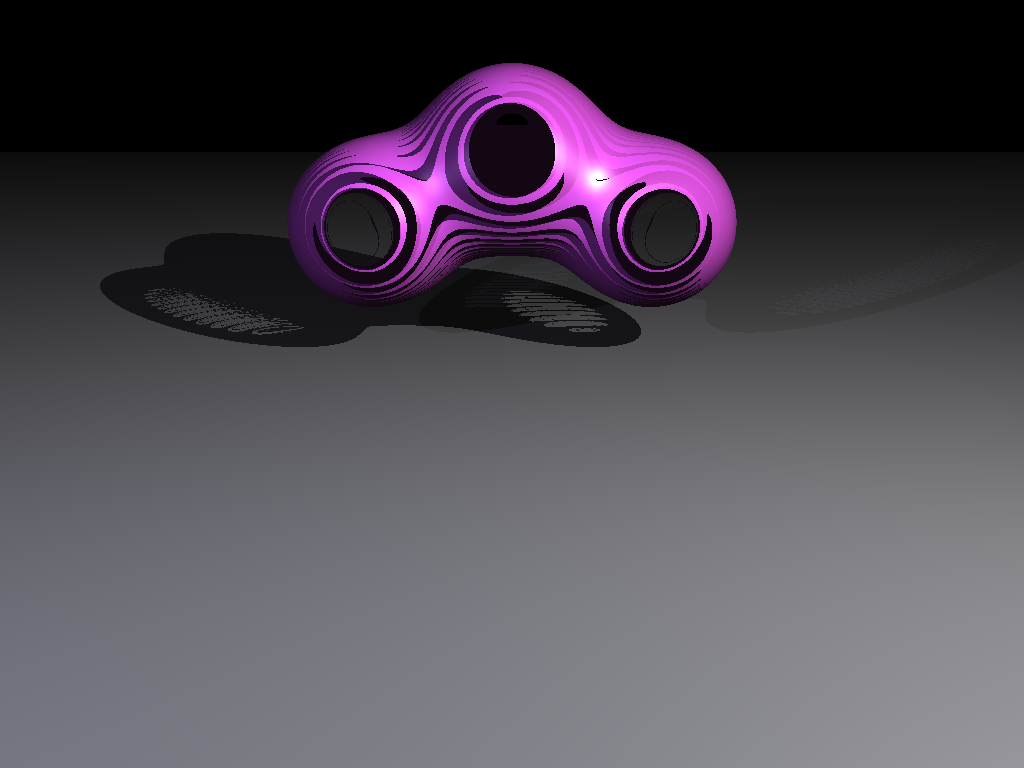
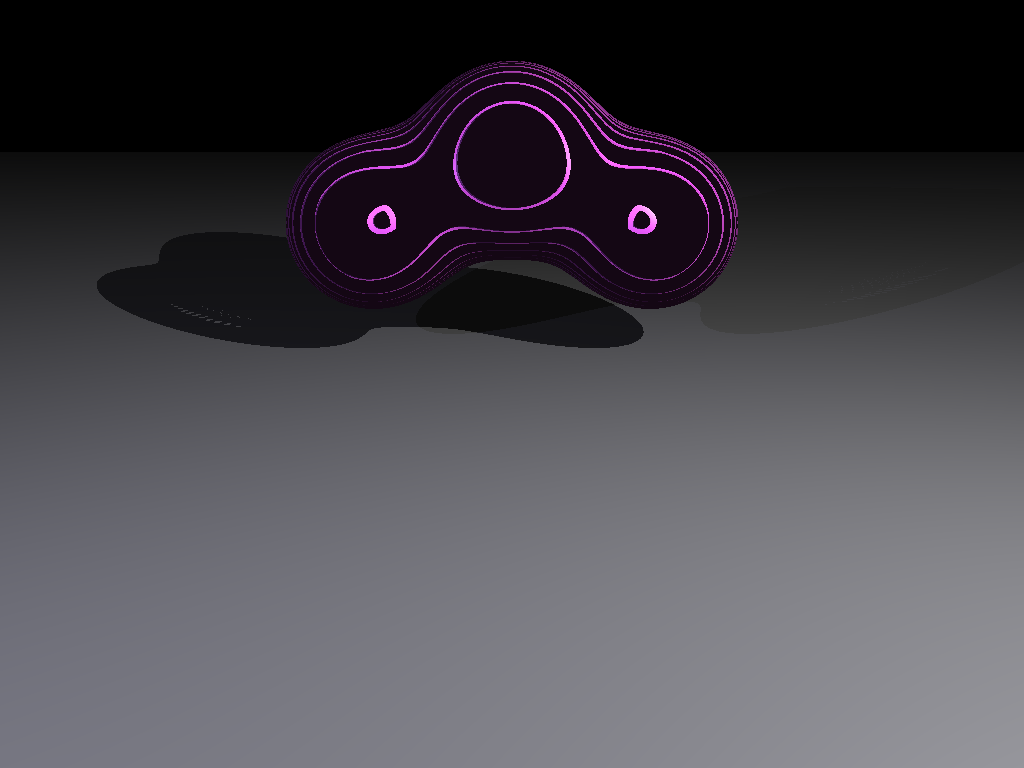
setting parameters

Changed region(s): [[0.2812, 0.0625, 0.7188, 0.4375], [0.125, 0.375, 0.2812, 0.4375], [0.0938, 0.3438, 0.125, 0.375]]

diff --git a/geometry.py b/geometry.py
@@ -698,7 +698,7 @@ def compute_sdf_normal(metaball: Metaball, point: tm.vec3) -> tm.vec3:
     
     # Normalize and return (pointing outward, so negate if needed)
     grad_len = tm.length(gradient)
-    result = tm.vec3(0.0, 1.0, 0.0)  # Default normal if gradient is zero
+    result = tm.vec3(0.0, 0.0, 1.0)  # Default normal if gradient is zero
     if grad_len > EPSILON:
         result = tm.normalize(gradient)
     return result
@@ -722,10 +722,10 @@ def rayMarchMetaball(metaball: Metaball, ray: Ray, t_min: float, t_max: float) -
     D_local = tm.normalize(local_ray.direction)
     
     # Ray marching parameters
-    max_steps = 128
+    max_steps = 256
     min_step_size = 0.001
     max_step_size = 0.1
-    surface_threshold = 0.01  # How close we need to get to surface
+    surface_threshold = 0.001  # How close we need to get to surface
     
     t = t_min
     hit_found = False
